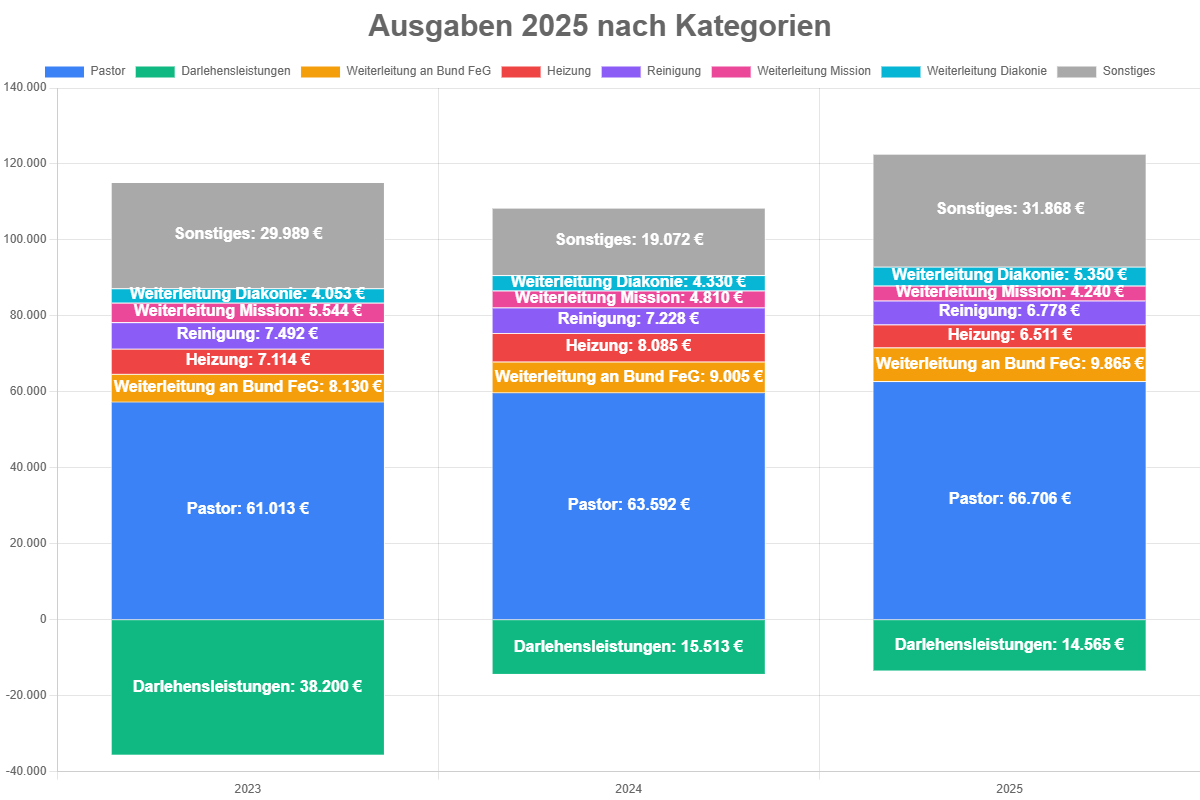
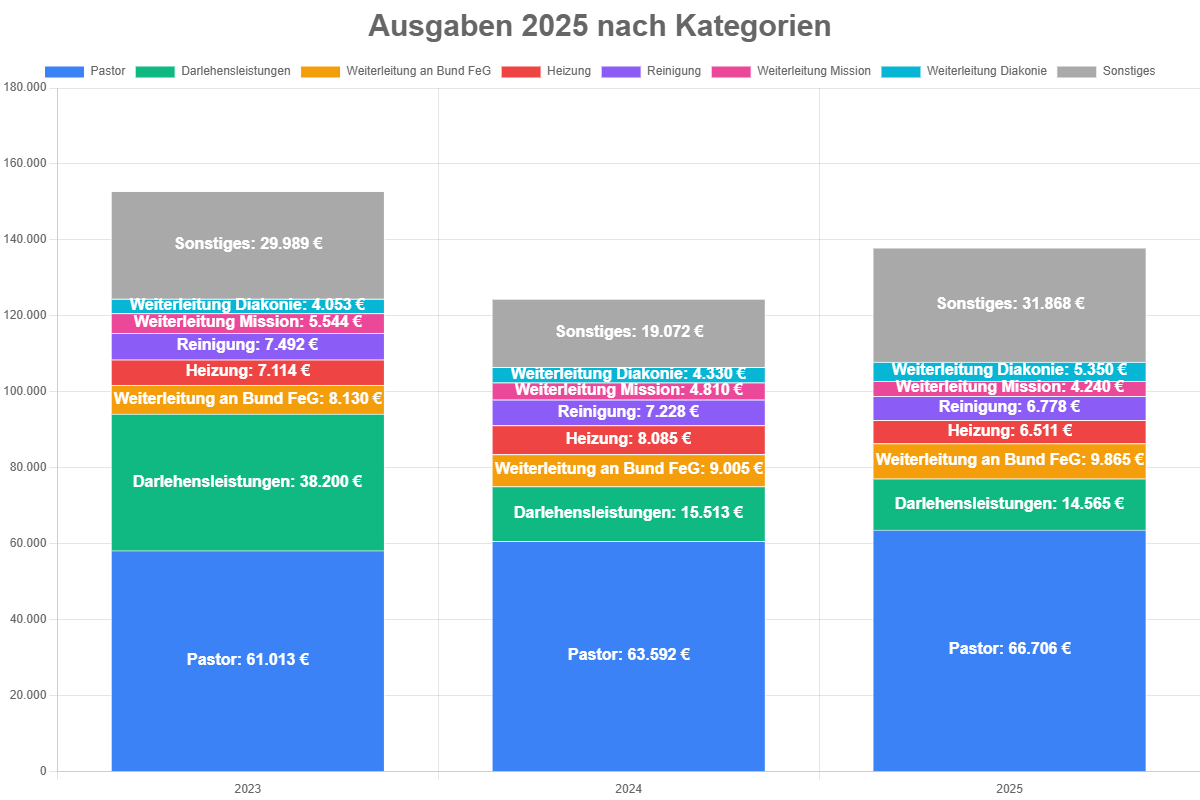
fix: Darlehensleistung ist jetzt positiv dargestellt

diff --git a/lib/charts.js b/lib/charts.js
@@ -18,7 +18,8 @@
             if (!name) return;
             const nlower = name.toLowerCase();
             if (nlower.includes('zinsen für darlehen')) {
-                zsum += Math.abs(v || 0);
+                // preserve the sign from the source CSV (do not take absolute)
+                zsum += (v || 0);
                 return;
             }
             if (v < 0 || expenseClasses.some(ic => kk.includes(ic))) {
@@ -53,7 +54,8 @@
         });
         const sonst = Math.max(0, authoritative - sumTop);
         out['Sonstiges'] = sonst;
-        out['Darlehensleistungen'] = - (zinsenByYear[yearStr] || 0);
+        // Write Darlehensleistungen as positive values in the JSON so they render above zero
+        out['Darlehensleistungen'] = Math.abs(zinsenByYear[yearStr] || 0);
         outputData[yearStr] = out;
     });
     // Reconcile Sonstiges for every processed year. If an enforced total is provided for a year
@@ -148,10 +150,11 @@ function generateAusgabenJsonFromSorted(sortedExpensesData, years, currentYear) 
             const yearNum = parseInt(y, 10);
             const zinsen = allExpensesByYear[y]['Zinsen für Darlehen'] || 0;
             const existingDarlehen = allExpensesByYear[y]['Darlehensleistungen'] || 0;
+            // Store Darlehensleistungen as positive values in the JSON
             if (yearNum >= 2024) {
-                obj['Darlehensleistungen'] = -Math.abs(zinsen || 0);
+                obj['Darlehensleistungen'] = Math.abs(zinsen || 0);
             } else {
-                obj['Darlehensleistungen'] = -Math.abs(existingDarlehen || 0);
+                obj['Darlehensleistungen'] = Math.abs(existingDarlehen || 0);
             }
         } catch (e) {
             obj['Darlehensleistungen'] = obj['Darlehensleistungen'] || 0;
@@ -309,8 +312,8 @@ async function generateAusgabenChartFromJson(reportYear) {
         });
         const sonst = Math.max(0, authoritative - sumTop);
         out['Sonstiges'] = sonst;
-        // Darlehensleistungen as negative value
-        out['Darlehensleistungen'] = - (zinsenByYear[yearStr] || 0);
+        // Darlehensleistungen as positive value in JSON (render above zero)
+        out['Darlehensleistungen'] = Math.abs(zinsenByYear[yearStr] || 0);
         outputData[yearStr] = out;
     });
 

diff --git a/lib/generate-ausgaben-chart.js b/lib/generate-ausgaben-chart.js
@@ -25,7 +25,14 @@ async function generateAusgabenChartPlaywright(reportYear, options = {}) {
   const sortedCats = Object.entries(categoryTotals).sort((a,b)=>b[1]-a[1]).map(e=>e[0]);
   if (hasSonstiges) sortedCats.push('Sonstiges');
   const colors = options.colors || ['#3B82F6','#10B981','#F59E0B','#EF4444','#8B5CF6','#EC4899','#06B6D4','#84CC16','#F97316','#6366F1'];
-  const datasetsForHtml = sortedCats.map((cat, idx) => ({ label: cat, data: years.map(y => { const v = (data[y] && data[y][cat]) || 0; return (cat === 'Darlehensleistungen') ? -Math.abs(v || 0) : Math.abs(v || 0); }), backgroundColor: (cat === 'Sonstiges') ? '#A9A9A9' : colors[idx % colors.length], borderColor: '#ffffff', borderWidth: 1, stack: 'stack1' }));
+  const datasetsForHtml = sortedCats.map((cat, idx) => ({
+    label: cat,
+    data: years.map(y => { const v = (data[y] && data[y][cat]) || 0; return Math.abs(v || 0); }),
+    backgroundColor: (cat === 'Sonstiges') ? '#A9A9A9' : colors[idx % colors.length],
+    borderColor: '#ffffff',
+    borderWidth: 1,
+    stack: 'stack1'
+  }));
 
   const dataPart = JSON.stringify({ labels: years, datasets: datasetsForHtml }, null, 2);
   const titlePart = JSON.stringify({ display: true, text: `Ausgaben ${year} nach Kategorien`, font: { size: 30 } }, null, 2);

diff --git a/Daten/result/Ausgaben_2025.html b/Daten/result/Ausgaben_2025.html
@@ -20,9 +20,9 @@
     {
       "label": "Darlehensleistungen",
       "data": [
-        -38200,
-        -15513.49,
-        -14564.69
+        38200,
+        15513.49,
+        14564.69
       ],
       "backgroundColor": "#10B981",
       "borderColor": "#ffffff",
